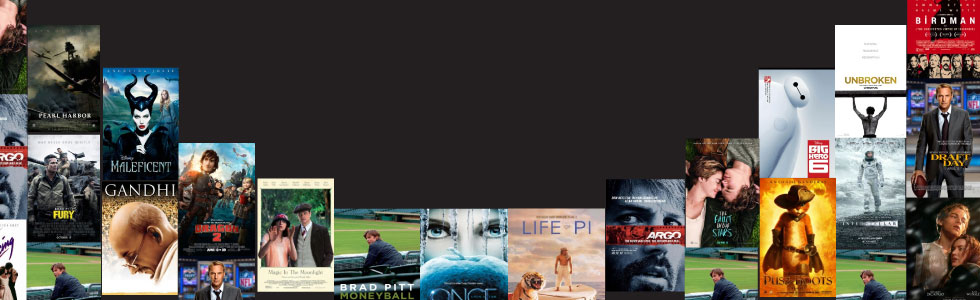
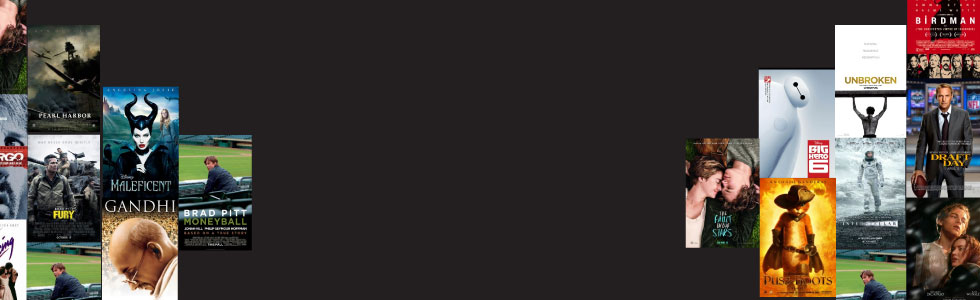
Added pic for mobiles

Changed region(s): [[0.0918, 0.21, 0.7959, 1.0]]

diff --git a/app/assets/stylesheets/custom.css.scss b/app/assets/stylesheets/custom.css.scss
@@ -133,40 +133,8 @@ footer .footer-links a:hover {
 	margin-top: 25px;
 }
 
-@media only screen and (min-device-width: 768px) {
-.jumbotron {
-background-color: #000;
-border: 1px solid #999999;
-text-align: center;
-h2 {
-color: #FFF;
-font-weight: bold;
-margin-top: -10px;
-}
-p {
-color: #962C5F;
-font-size: 14px;
-font-weight: bold;
-}
-}	
+@media only screen and (max-device-width: 720px) {
+	.jumbotron { background-image: url('https://s3.amazonaws.com/funkyflick1/panelmobile.jpg');
 
-}
-
-@media only screen and (min-device-width: 480px) {
-.jumbotron {
-background-color: #000;
-border: 1px solid #999999;
-text-align: center;
-h2 {
-color: #FFF;
-font-weight: bold;
-margin-top: -10px;
-}
-p {
-color: #962C5F;
-font-size: 14px;
-font-weight: bold;
-}
-}	
-
+	}
 }
